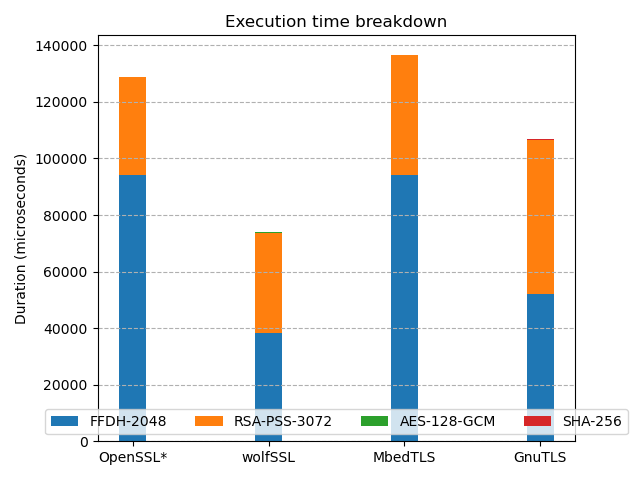
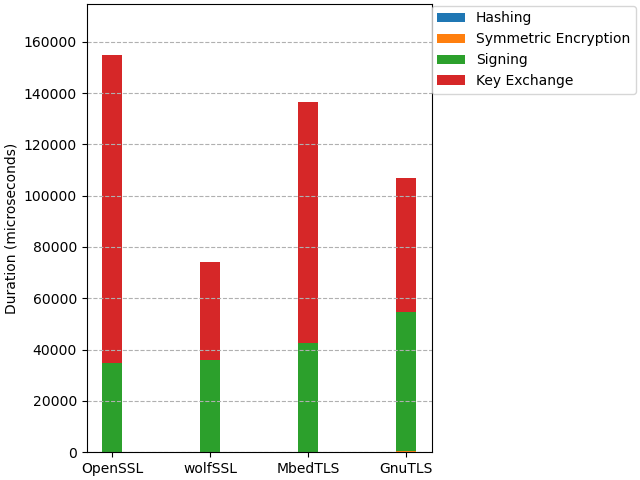
sdf

Changed region(s): [[0.0, 0.0, 1.0, 1.0], [0.7812, 0.2812, 0.9688, 0.9688], [0.3125, 0.1875, 0.3438, 0.2188]]

diff --git a/plots/time_ffdh2048_rsa3072_aes128gcm_sha256.py b/plots/time_ffdh2048_rsa3072_aes128gcm_sha256.py
@@ -7,31 +7,39 @@
 # rows = ['OpenSSL', 'wolfSSL', 'MbedTLS', 'GnuTLS']
 
 # data from https://allisonhorst.github.io/palmerpenguins/
-
+import matplotlib
 import matplotlib.pyplot as plt
 import numpy as np
 
-algos = ("FFDH-2048", "RSA-PSS-3072", "AES-128-GCM", "SHA-256", "Total")
-times = {
-    'OpenSSL': (1725770.64, 34664.27, 58.0, 16.156222),
-    'wolfSSL': (38191.548417, 35588.0, 66.0, 161.0),
-    'MbedTLS': (94037.0, 42559.0, 45.0, 76.0),
-    'GnuTLS': (52094.0, 54453.0, 86.0, 167.0)
-}
-
+# algos = ("FFDH-2048", "RSA-PSS-3072", "AES-128-GCM", "SHA-256", "Total")
+# times = {
+#     'OpenSSL': (1688307, 34664.3, 58, 16.1),
+#     'wolfSSL': (38191.5, 35588, 66, 161),
+#     'MbedTLS': (94037, 42559, 45, 76),
+#     'GnuTLS': (52094, 54453, 86, 167)
+# }
+# print(matplotlib.__version__)
 libs = ('OpenSSL', 'wolfSSL', 'MbedTLS', 'GnuTLS')
+# durs = {
+#     # 'FFDH-2048': (1688307, 38191.5, 94037, 52094),
+#     'Key Exchange': (110000, 38191.5, 94037, 52094),
+#     'Signing': (34664.3, 35588, 42559, 54453),
+#     'Symmetric Encryption': (58, 66, 45, 86),
+#     'Hashing': (16.1, 161, 76, 167)
+# }
 durs = {
-    'FFDH-2048': (1688307.0, 38191.548417, 94037.0, 52094.0),
-    'RSA-PSS-3072': (34664.27, 35588.0, 42559.0, 54453.0),
-    'AES-128-GCM': (58.0, 66.0, 45.0, 86.0),
-    'SHA-256': (16.156222, 161.0, 76.0, 167.0)
+    'Hashing': (16.1, 161, 76, 167),
+    'Symmetric Encryption': (58, 66, 45, 86),
+    'Signing': (34664.3, 35588, 42559, 54453),
+    # 'FFDH-2048': (1688307, 38191.5, 94037, 52094),
+    'Key Exchange': (120000, 38191.5, 94037, 52094),   
 }
 
 bottom = np.zeros(3)
 x = np.arange(len(libs))  # the label locations
 width = 0.2  # the width of the bars
 
-fig, ax = plt.subplots(layout='tight')
+fig, ax = plt.subplots(layout='constrained')
 bottom = np.zeros(4)
 for boolean, dur in durs.items():
     p = ax.bar(libs, dur, width, label=boolean, bottom=bottom)
@@ -39,32 +47,35 @@ for boolean, dur in durs.items():
 
 # Add some text for labels, title and custom x-axis tick labels, etc.
 ax.set_ylabel('Duration (microseconds)')
-ax.set_title('Execution time breadown')
+# ax.set_title('Execution time breadown')
 # ax.set_xticks(x + width, libs)
-ax.legend(loc='lower center', ncols=4)
-# ax.set_ylim(0, 100000)
-ax.set_yscale('log')
+ax.legend(loc=(1, 0.8))
+ylim = 0
+for index, (key, value) in enumerate(durs.items()):
+    ylim += max(durs[key])
+ax.set_ylim(0, ylim)
+# ax.set_yscale('log')
 ax.minorticks_off()
-
+# ax.invert_xaxis() 
 ax.grid(axis='y', linestyle='--') # Add horizontal grid lines
 
-data = []
-row_labels = []
-for index, (key, value) in enumerate(times.items()):
-    tmp = list(value)
-    for i in range(len(tmp)):
-        tmp[i] = "{:,.2f}".format(tmp[i]) # https://queirozf.com/entries/python-number-formatting-examples
-    tmp.append("{:,.2f}".format(sum(value)))
-    data.append(tmp)    
-    row_labels.append(key)
-col_labels = algos
+# data = []
+# row_labels = []
+# for index, (key, value) in enumerate(times.items()):
+#     tmp = list(value)
+#     for i in range(len(tmp)):
+#         tmp[i] = "{:,.2f}".format(tmp[i]) # https://queirozf.com/entries/python-number-formatting-examples
+#     tmp.append("{:,.2f}".format(sum(value)))
+#     data.append(tmp)    
+#     row_labels.append(key)
+# col_labels = algos
 
-fig, ax = plt.subplots()
-ax.axis('off')  # Hide the axes
-table = plt.table(cellText=data, colLabels=col_labels, rowLabels=row_labels, loc='center')
-table.scale(1, 1.5) # Adjust table size
+# fig, ax = plt.subplots()
+# ax.axis('off')  # Hide the axes
+# table = plt.table(cellText=data, colLabels=col_labels, rowLabels=row_labels, loc='center')
+# table.scale(1, 1.5) # Adjust table size
 
-table.auto_set_font_size(False) # Disable autosizing
+# table.auto_set_font_size(False) # Disable autosizing
 # table.set_fontsize(12) # Set font size
 
 plt.show()
